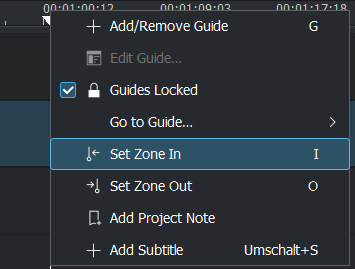
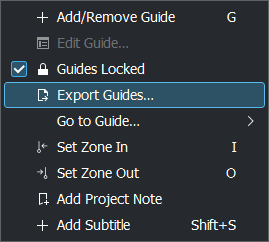
Add export guides as chapter description

diff --git a/cutting_and_assembling/guides.rst b/cutting_and_assembling/guides.rst
@@ -1,3 +1,8 @@
+.. meta::
+   :description: Set guides in Kdenlive video editor
+   :keywords: KDE, Kdenlive, set guides, DVD, youtube, editing, timeline, documentation, user manual, video editor, open source, free, learn, easy
+
+
 .. metadata-placeholder
 
    :authors: - Annew (https://userbase.kde.org/User:Annew)
@@ -28,23 +33,25 @@ Guides
    :align: left
    :alt: Kdenlive_Add_guide
 
-Guides are labels on the timeline that can be added by right-clicking at a spot on the timeline ruler and choosing :menuselection:`Add/Remove Guide`. You can put a comment in the guide and make the comment display by choosing :ref:`editing` in the :menuselection:`Timeline` menu or by clicking on the :ref:`editing` button.
+Guides are labels on the timeline that can be added by right-clicking at a spot on the timeline ruler and choosing :menuselection:`Add/Remove Guide` or press :kbd:`G`. You can put a comment in the guide and make the comment display by choosing :ref:`editing` in the :menuselection:`Timeline` menu or by clicking on the :ref:`editing` button.
 
 .. rst-class:: clear-both
 
 .. versionadded:: 21.08
    
-Guides Locked: See :ref:`move_guides_with_spacer_tool`  
+:guilabel:`Guides Locked`: See :ref:`move_guides_with_spacer_tool`  
 
 .. versionadded:: 22.04
 
-Set Zone In/Out. See :ref:`timeline-preview-rendering`
+:guilabel:`Set Zone In/Out`. See :ref:`timeline-preview-rendering`
 
-Add Project Notes: See :ref:`notes`
+:guilabel:`Add Project Notes`: See :ref:`notes`
+
+
 
 .. versionadded:: 20.12
 
-Add Subtitle: See :ref:`subtitle`
+:guilabel:`Add Subtitle`: See :ref:`subtitle`
 
 Guides in the picture below are the purple flags. Not to be confused with :ref:`clips` (gold in the picture below). Guides are static on the timeline and are stationary when clips are moved around. Markers are inside the clips and move with the clips.
 
@@ -58,6 +65,33 @@ Guides can be used to define regions for rendering. See :ref:`rendering`.
 
 
 Guides can also be used as chapters for DVD videos. See :ref:`rendering`.
+
+.. versionadded:: 22.08
+
+**Export guides as chapter description**
+
+Guides can mark chapters or different sections of a video while editing. Uploading edited videos to platforms like YouTube, the guides can be exported as chapter marks that are supported by YouTube. This can be done by :guilabel:`Copy to Clipboard` and paste then into YouTube.
+
+Right click in the timeline ruler and choose :guilabel:`Export Guides` or :menuselection:`Timeline -> Guides -> Export Guides`. Then the window `Export guides as chapters description` appears.
+
+.. image:: /images/Kdenlive_export_guides.png
+   :alt: Kdenlive_export_guides
+
+:guilabel:`Marker Type`: Choose one of the guide types to mark chapters and use other types to do other things.
+
+:guilabel:`Offset`: This adds the ability to set a general offset (hh:mm:ss:ff) to each guide.
+
+:guilabel:`Format`: This defines how the chapter marks are exported. If using the default format string, Kdenlive check if the chapter marker matches YouTube's guideline, and display a notice if it doesn't match.
+
+{{nexttimecode}}: Allow describe chapter time range in a single line (default).
+
+{{comment}}: Show the guide text (default).
+
+{{frame}}: Adds the frame number of each guide.
+
+:guilabel:`Exported`: Shows what get exported. To change the guide text you have to edit the guide in the timeline.
+
+:guilabel:`Copy to Clipboard`: Copy the data viewed in :guilabel:`Exported` into the clipboard to use it in other applications (Youtube).
 
 .. _move_guides_with_spacer_tool:
 
